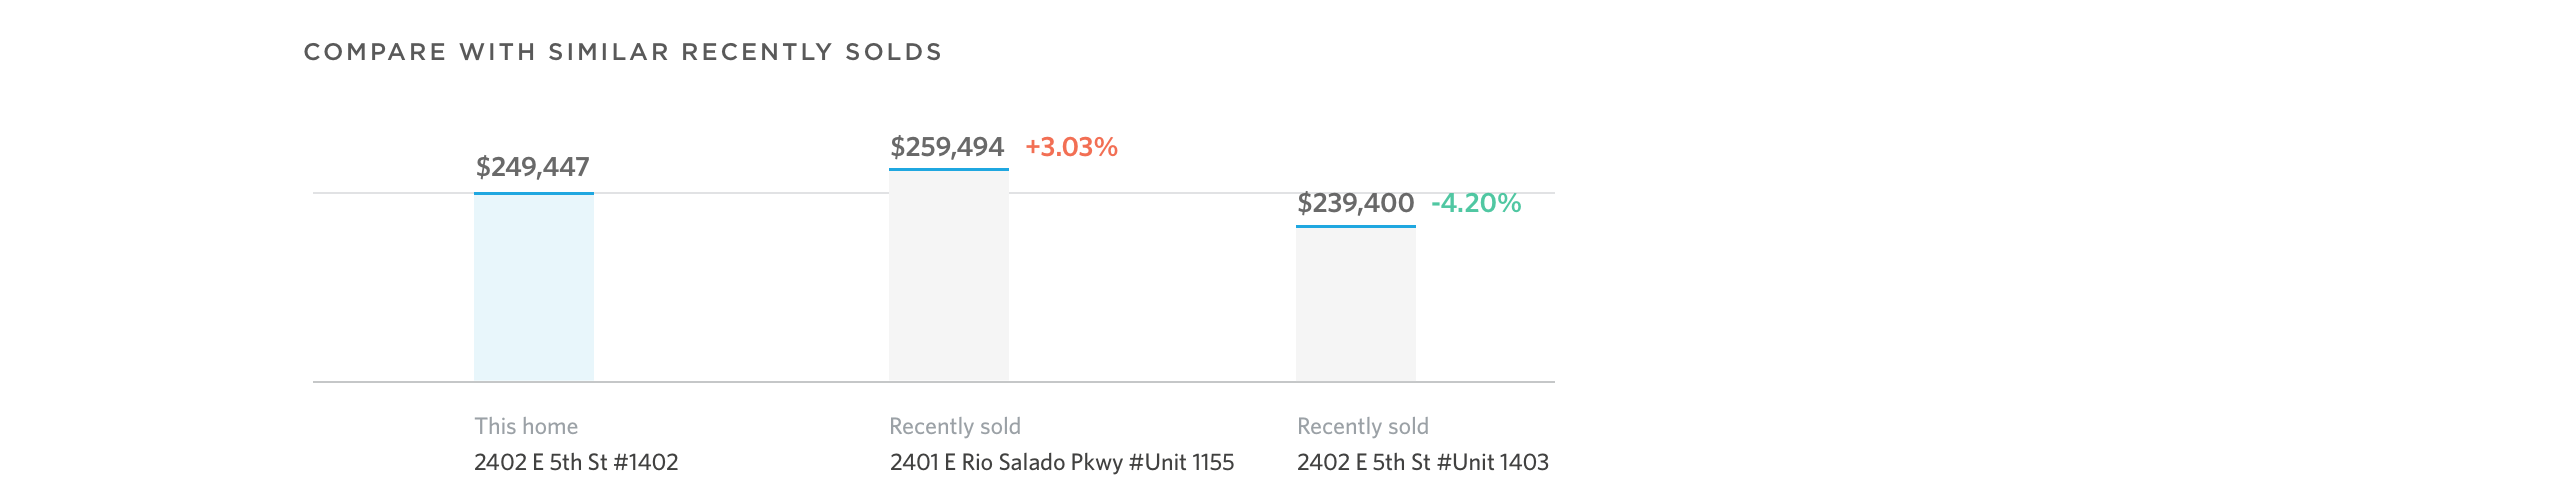
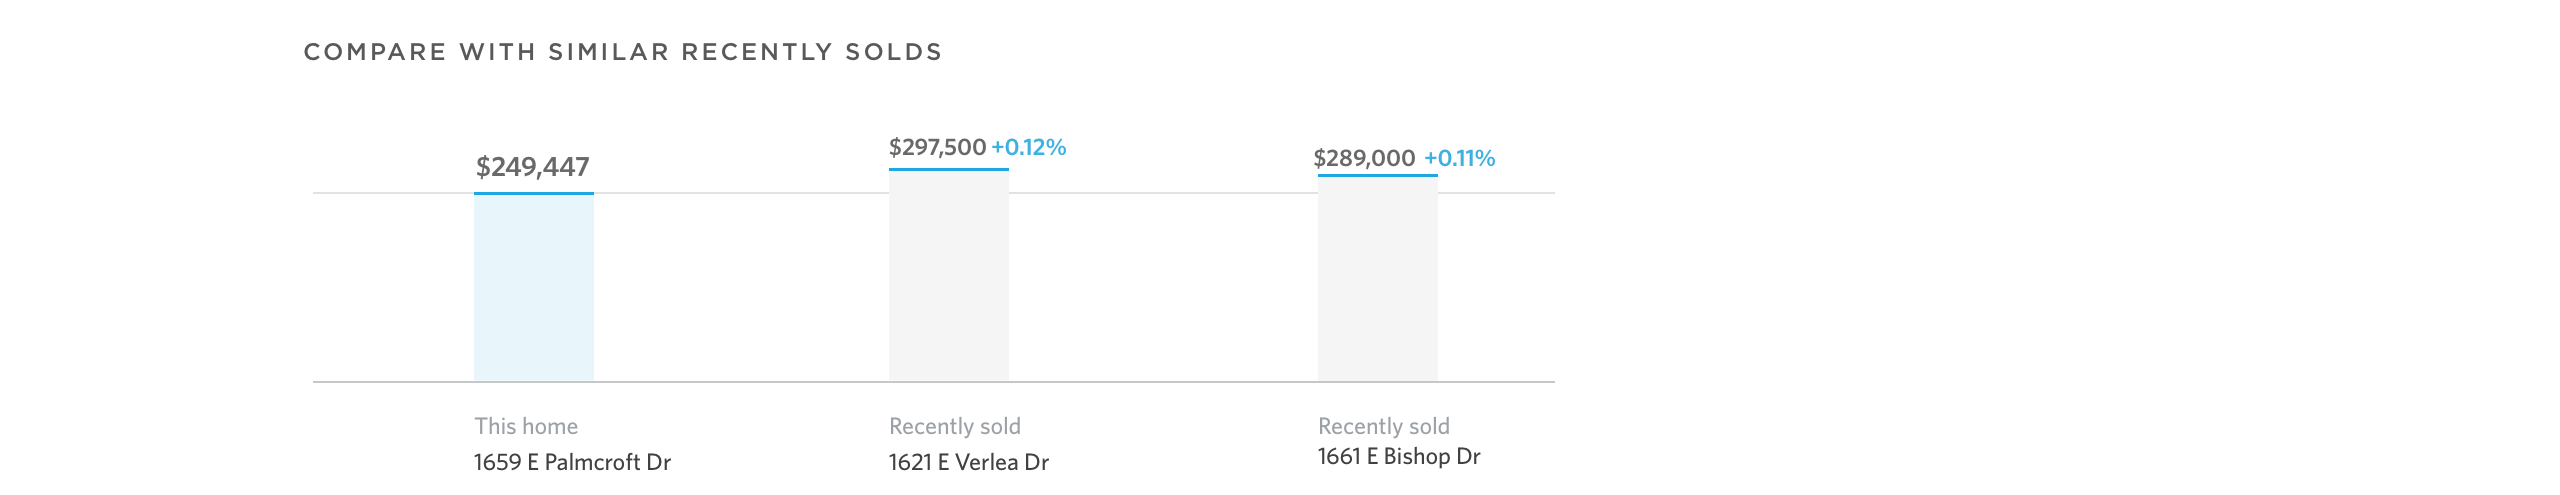
update files

diff --git a/index-c2.html b/index-c2.html
@@ -16,16 +16,16 @@
 
 <body>
 <!-- this is the webpage before testing content -->
-<div class="img" ><img id="img_top" src="img/img_top.png"></div>
+<div class="img" ><img id="img_top" src="img/img_top_palmcroft.png"></div>
 
 <!-- this is the testing content -->
 
 <div class="img content" ><img id="img" src="img/c2.png"></div>
 
-<div class="img btn" ><img id="img" src="img/btn-c1.png"></div>
+<!-- <div class="img btn" ><img id="img" src="img/btn-c1.png"></div> -->
 
 <!-- this is webpage after testing content -->
-<div class="img"><img id="img_bottom" src="img/img_bottom.png"></div>
+<div class="img"><img id="img_bottom" src="img/img_bottom_palmcroft.png"></div>
 
 
 </body>
